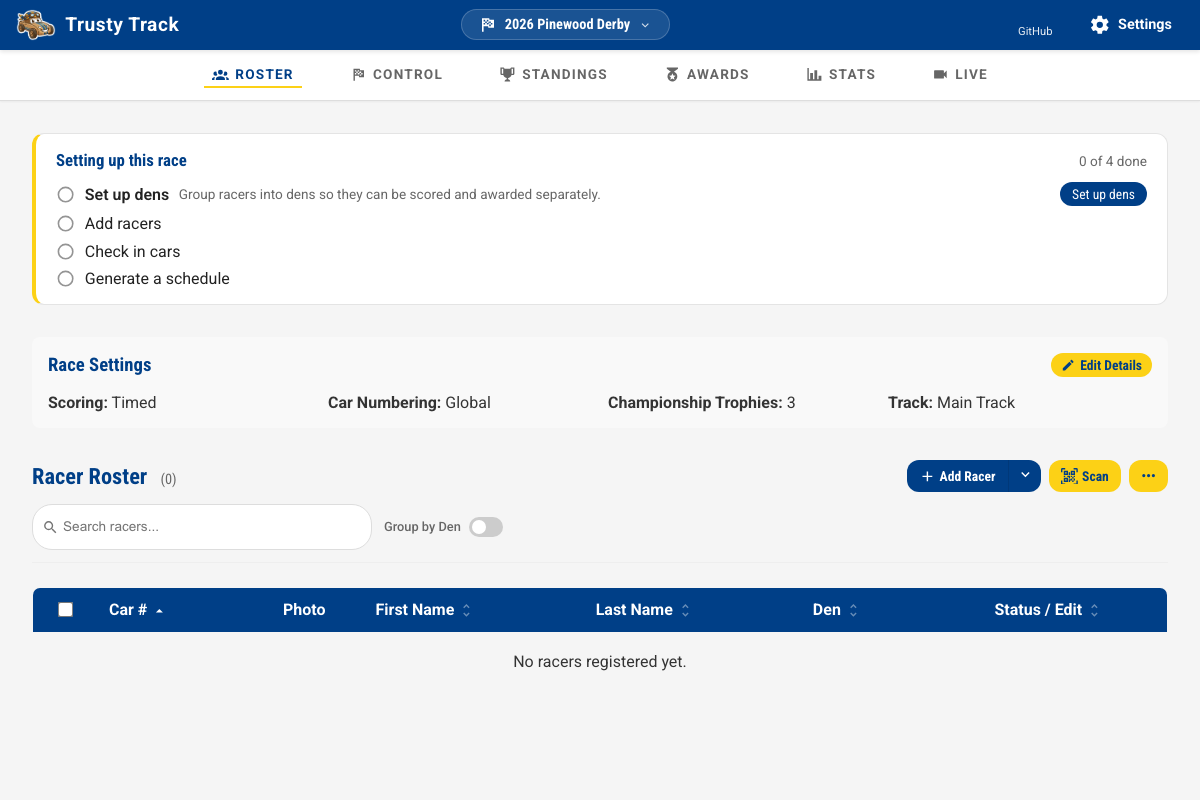
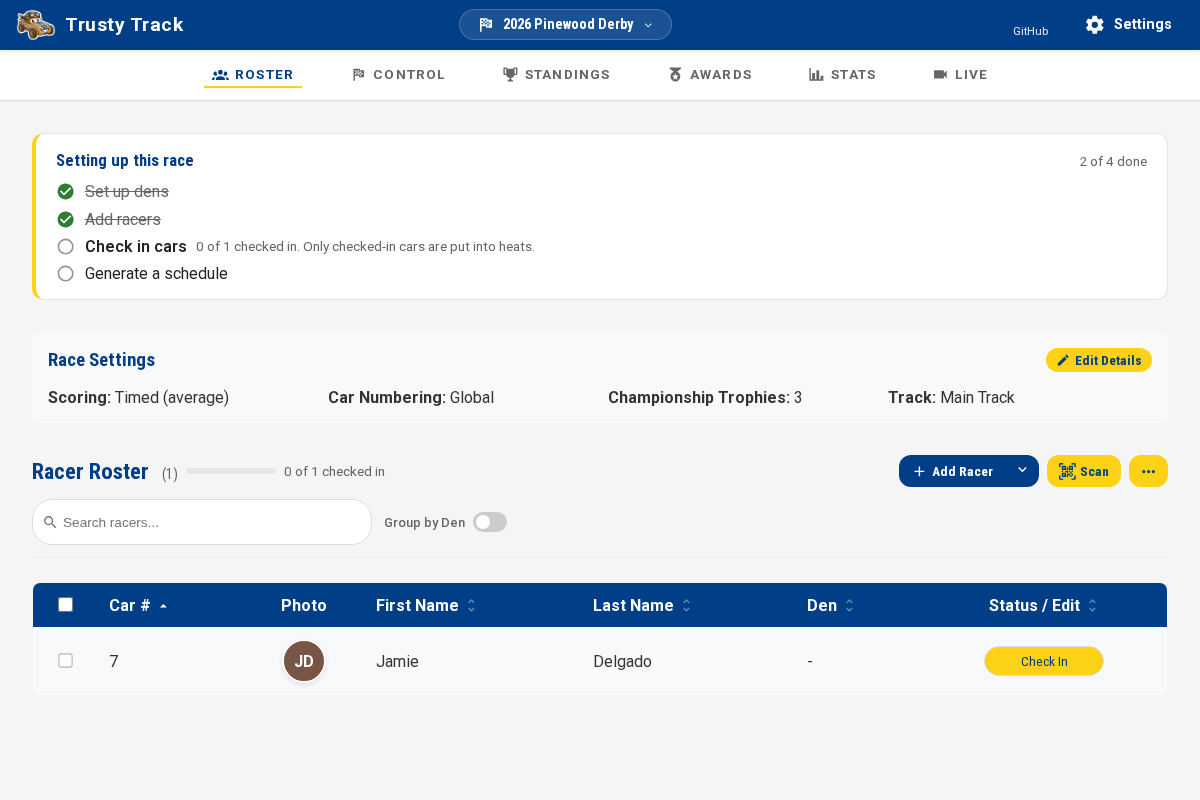
Save the manually-added racer in race-day.spec.ts so its screenshot matches the caption
docs/race-setup.md says the racer "will now appear in your roster" above
05-racer-list-manual.png, but the spec cancelled the Add Racer form before
taking the picture, so it showed an empty roster three ways out of step with
its own caption and comments (#607).

The spec now actually saves one racer ("Jamie Delgado", car #7) through the
form, waits for the row, and takes the screenshot — then deletes that racer
through the API before Populate Test Data runs, since the seeded roster
generator keys off the race's name rather than a racer count, so removing the
hand-typed racer first leaves every downstream picture, checked-in count and
caption exactly as before.

diff --git a/frontend/e2e/docs/race-day.spec.ts b/frontend/e2e/docs/race-day.spec.ts
@@ -120,12 +120,40 @@ test('take screenshots', async ({ page }) => {
     await expect(page.getByRole('button', { name: 'Save Racer' })).toBeVisible();
     await page.screenshot({ path: path.join(screenshotsDir, 'race-setup/04-add-racer-form.png') });
 
-    // Cancelled, because the roster is populated below rather than typed.
-    await page.getByRole('button', { name: /Cancel/i }).click();
+    // Saved, not cancelled (#607) — the caption below says the racer "will now
+    // appear in your roster", so the picture needs one actually in it.
+    const manualForm = page.locator('form');
+    await manualForm.getByLabel('First Name').fill('Jamie');
+    await manualForm.getByLabel('Last Name').fill('Delgado');
+    await manualForm.getByLabel('Car Number').fill('7');
+    await page.getByRole('button', { name: 'Save Racer' }).click();
     await expect(page.getByRole('button', { name: 'Save Racer' })).toBeHidden();
+    await expect(page.locator('.racer-row').filter({ hasText: 'Delgado' }).first()).toBeVisible();
 
-    // The roster with nothing in it yet, from the racer-list section's angle.
+    // The roster with the one racer just typed in, from the racer-list
+    // section's angle.
     await page.screenshot({ path: path.join(screenshotsDir, 'race-setup/05-racer-list-manual.png') });
+
+    // Removed again through the API rather than the roster's own delete
+    // control, which would be its own screenshot-worthy flow. Everything below
+    // — the checked-in counts, the seeded roster's car numbers — assumes
+    // exactly the populated roster, not this one hand-typed extra racer, and
+    // the seeded generator keys off the race's *name* (not a racer count or
+    // id) so removing this one first changes nothing it produces. Queried by
+    // id rather than assumed, since `createRacer`'s own id is not in hand from
+    // a UI submission.
+    const manualRacer = await gql<{ race: { racers: Array<{ id: number }> } }>(
+        page,
+        `query DocsManualRacer($raceId: Int!) { race(raceId: $raceId) { racers { id } } }`,
+        { raceId },
+    );
+    for (const racer of manualRacer.race.racers) {
+        await gql(page, `mutation DocsDeleteManualRacer($id: Int!) { deleteRacer(id: $id) }`, { id: racer.id });
+    }
+    // Deleted straight through the backend, so reload before the roster is
+    // touched again.
+    await page.reload();
+    await page.waitForLoadState('networkidle');
 
     // The CSV import dialog.
     await page.locator('.split-btn-arrow').click();
